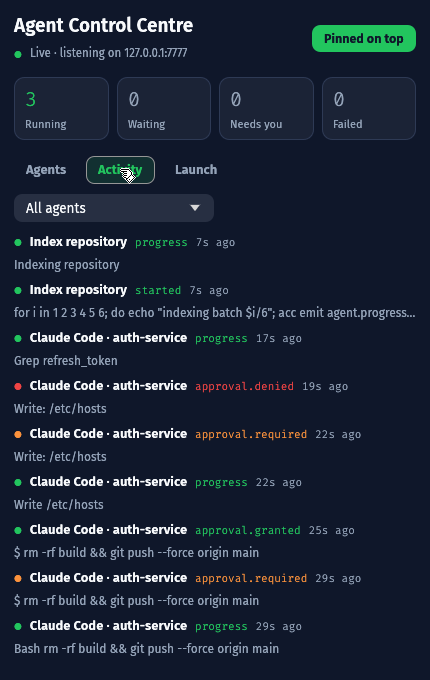
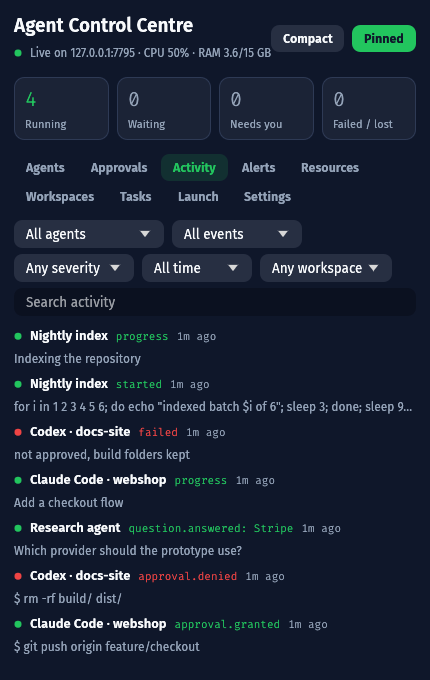
Refresh screenshots and walkthrough for the 0.3 window; card header tag no longer runs under the pills

diff --git a/src/ui.rs b/src/ui.rs
@@ -184,7 +184,8 @@ fn title_row(ui: &mut egui::Ui, name: &str, tag: &str, pills: impl FnOnce(&mut e
                 ui.add(
                     egui::Label::new(RichText::new(name).font(theme::semibold(14.5))).truncate(),
                 );
-                ui.label(RichText::new(tag).size(10.5).color(DIM));
+                // the tag gives way first when the row is tight
+                ui.add(egui::Label::new(RichText::new(tag).size(10.5).color(DIM)).truncate());
             });
         });
     });

diff --git a/README.md b/README.md
@@ -8,9 +8,19 @@ Runs on **Linux** and **Windows**.
 
 ![walkthrough](docs/demo.gif)
 
-| Approval with the exact action | Per-agent history | Activity feed |
+| Approvals with risk level and questions | The agent board | Per-agent history |
 |---|---|---|
-| ![](docs/approval.png) | ![](docs/history.png) | ![](docs/activity.png) |
+| ![](docs/approval.png) | ![](docs/screenshot.png) | ![](docs/history.png) |
+
+| Activity feed with filters | Notification history | Workspaces and conflicts |
+|---|---|---|
+| ![](docs/activity.png) | ![](docs/alerts.png) | ![](docs/workspaces.png) |
+
+Compact mode, and an agent launched from the HUD with its output:
+
+![](docs/compact.png)
+
+![](docs/managed-agent.png)
 
 ## What it does
 
